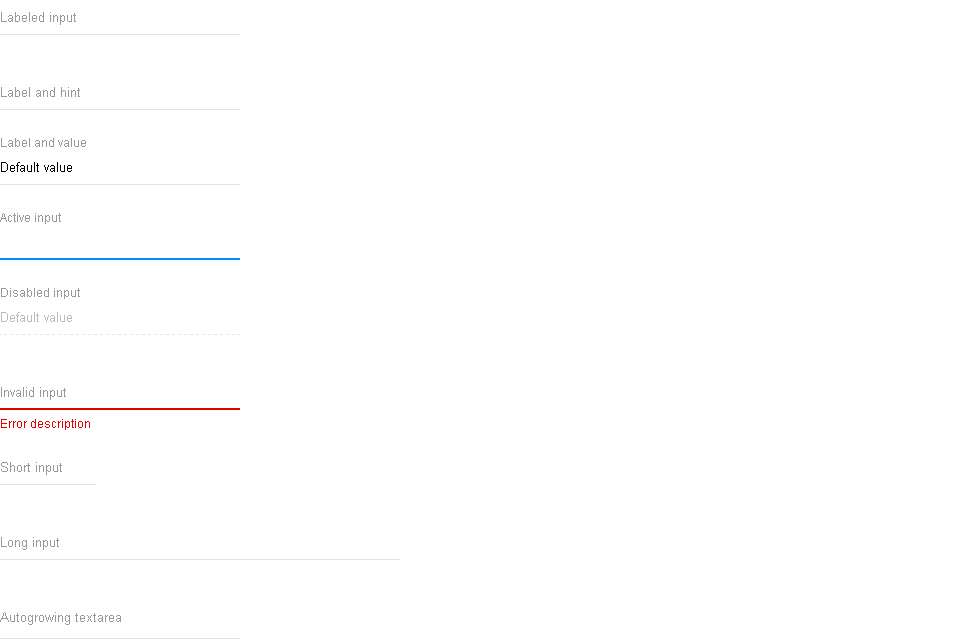
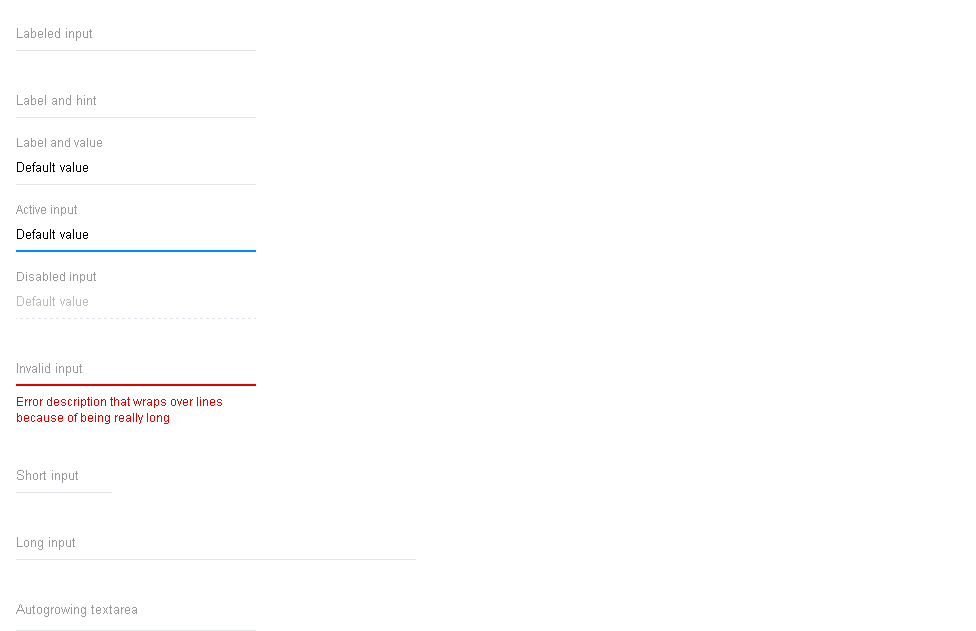
RG-1153 UI Language: input
Former-commit-id: ea9a7a166d2829e84f0085a16f27c2f528db01f8

diff --git a/components/input/input.css b/components/input/input.css
@@ -2,14 +2,9 @@
 
 .container {
   composes: font-lower;
-  padding: unit 0;
+  padding-top: calc(unit * 3);
   margin: calc(unit * 5) 0;
   position: relative;
-  border-bottom: 1px solid line-color;
-
-  &.disabled {
-    border-bottom-style: dashed;
-  }
 }
 
 .input {
@@ -28,7 +23,9 @@
     color: disabled-color;
   }
 }
+
 textarea.input {
+  box-sizing: border-box;
   overflow: hidden;
   resize: none;
 }
@@ -38,7 +35,7 @@ textarea.input {
   pointer-events: none;
   position: absolute;
   background: white-color;
-  top: unit;
+  top:calc(unit * 3);
   left: 0;
   transition: all .15s ease-out;
 }
@@ -48,35 +45,45 @@ textarea.input {
 .container:not(.empty) > .label {
   background: transparent;
   font-size: font-size-smaller;
-  top: calc(- unit * 2);
+  top: 0;
 }
 
-.underline {
-  position: absolute;
-  left: 0;
-  bottom: -1px;
+.underline{
+  height: unit;
+  border-bottom: 1px solid line-color;
+}
+
+.input[disabled] ~ .underline {
+  border-bottom-style: dashed;
+}
+
+.focusUnderline,
+.errorUnderline {
+  margin-top: -2px;
   height: 2px;
   width: 0;
   background: main-color;
 }
 
-.input:focus ~ .underline,
-.container.active > .underline,
-.error > .underline {
+.errorUnderline {
+  background: error-color;
+}
+
+.input:focus ~ .focusUnderline,
+.container.active > .focusUnderline,
+.error > .errorUnderline {
   width: 100%;
   transition: width .15s ease-out;
 }
 
 .errorText {
   color: error-color;
-  font-size: font-size-smaller;
-  position: absolute;
-  left: 0;
-  bottom: calc(- unit * 3);
-}
-
-.error > .underline {
-  background-color: error-color;
+  composes: font-smaller-lower;
+  box-sizing: border-box;
+  height: 0;
+  overflow: hidden;
+  padding-top: unit;
+  transition: height .3s ease-out;
 }
 
 .sizeS {

diff --git a/components/input/input.js b/components/input/input.js
@@ -57,7 +57,6 @@ export default class Input extends RingComponent {
       size,
       active,
       multiline,
-      disabled,
 
       // Props
       label,
@@ -75,7 +74,6 @@ export default class Input extends RingComponent {
         [styles[`size${size}`]]: true,
         [styles.active]: active,
         [styles.error]: error,
-        [styles.disabled]: disabled,
         [styles.empty]: this.state.empty
       }
     );
@@ -92,7 +90,6 @@ export default class Input extends RingComponent {
       },
       className: styles.input,
       value: value || children,
-      disabled,
       ...props
     };
 
@@ -110,8 +107,17 @@ export default class Input extends RingComponent {
         )}
         <label className={styles.label}>{label}</label>
         <div className={styles.underline} />
+        <div className={styles.focusUnderline} />
+        <div className={styles.errorUnderline} />
         {typeof error === 'string' && (
-          <span className={styles.errorText}>{error}</span>
+          <div
+            className={styles.errorText}
+            ref={el => {
+              if (el) {
+                el.style.height = `${el.scrollHeight}px`;
+              }
+            }}
+          >{error}</div>
         )}
       </div>
     );

diff --git a/components/input/input.examples.html b/components/input/input.examples.html
@@ -1,4 +1,10 @@
 <example name="input">
+  <file type="scss">
+    .inputs > div {
+      margin: 16px;
+    }
+  </file>
+
   <file name="index.html">
     <div id="inputs"></div>
   </file>
@@ -24,6 +30,7 @@
         <Input
           label="Active input"
           active={true}
+          defaultValue="Default value"
         />
         <Input
           label="Disabled input"
@@ -32,7 +39,7 @@
         />
         <Input
           label="Invalid input"
-          error="Error description"
+          error="Error description that wraps over lines because of being really long"
         />
         <Input
           label="Short input"
